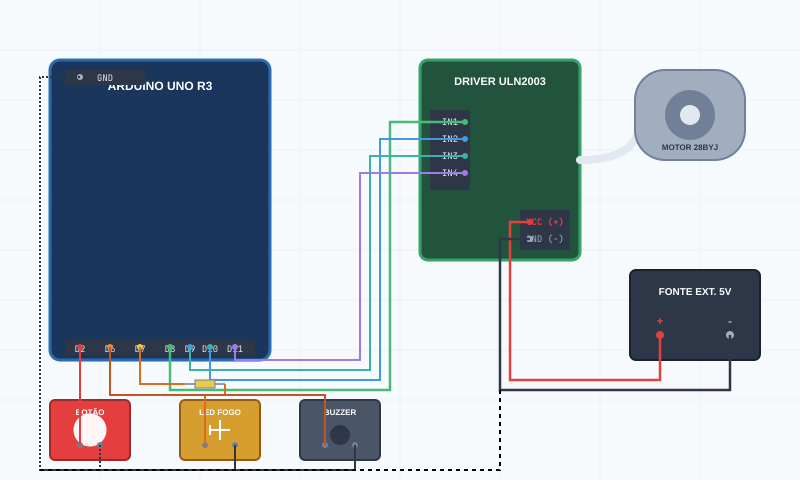
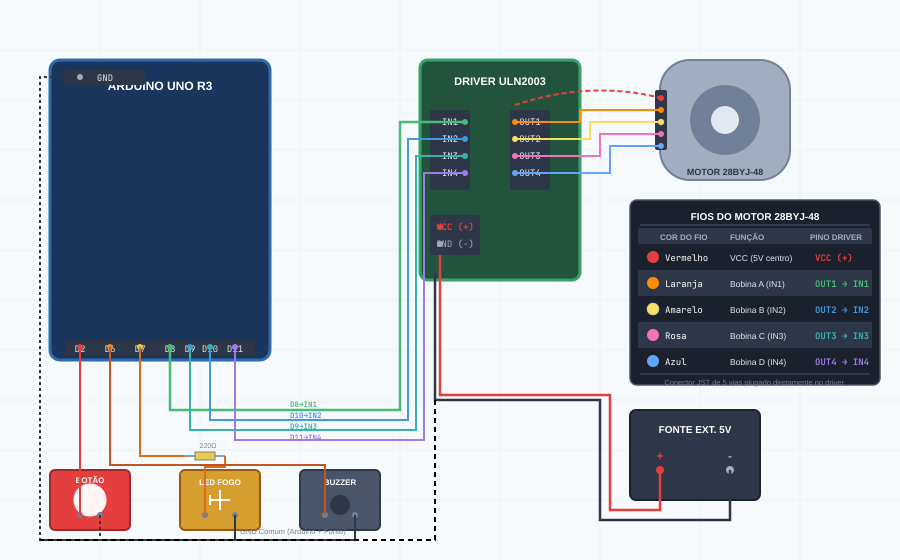
feat: atualizar esquemas e tutorial do pouso lunar

diff --git a/downloads/pouso-lunar/tutorial_pouso_lunar.html b/downloads/pouso-lunar/tutorial_pouso_lunar.html
@@ -864,11 +864,75 @@
     Trocar esses dois fios fará o motor vibrar sem girar ou girar de forma irregular.
 </div>
 
+<h2>Fios do Motor 28BYJ-48 → Driver ULN2003</h2>
+<p>
+    O motor 28BYJ-48 possui um conector JST de <strong>5 vias</strong> que se encaixa
+    diretamente no driver ULN2003. Cada fio tem uma cor padrão de fábrica que
+    corresponde a uma bobina interna. Confira a tabela antes de plugar:
+</p>
+
+<table class="avoid-break">
+    <thead>
+        <tr>
+            <th style="width:12%">Cor do Fio</th>
+            <th style="width:22%">Identificação</th>
+            <th style="width:28%">Função / Bobina</th>
+            <th style="width:18%">Pino Driver</th>
+            <th>Observações</th>
+        </tr>
+    </thead>
+    <tbody>
+        <tr>
+            <td><span class="color-dot" style="background:#E53E3E"></span><strong>Vermelho</strong></td>
+            <td>VCC — Centro</td>
+            <td>Alimentação das bobinas (ponto central)</td>
+            <td><span class="pin pin-vcc">VCC (+) 5V</span></td>
+            <td>Fio do meio no conector. Sempre vai ao VCC da fonte externa.</td>
+        </tr>
+        <tr>
+            <td><span class="color-dot" style="background:#FF8C00"></span><strong>Laranja</strong></td>
+            <td>Bobina A</td>
+            <td>Fase 1 — IN1 do driver</td>
+            <td><span class="pin pin-digital">OUT1</span></td>
+            <td>Primeiro fio após o vermelho.</td>
+        </tr>
+        <tr>
+            <td><span class="color-dot" style="background:#ECC94B; border:1px solid #ccc"></span><strong>Amarelo</strong></td>
+            <td>Bobina B</td>
+            <td>Fase 2 — IN2 do driver</td>
+            <td><span class="pin pin-digital">OUT2</span></td>
+            <td>Sequência natural do conector.</td>
+        </tr>
+        <tr>
+            <td><span class="color-dot" style="background:#F472B6"></span><strong>Rosa</strong></td>
+            <td>Bobina C</td>
+            <td>Fase 3 — IN3 do driver</td>
+            <td><span class="pin pin-digital">OUT3</span></td>
+            <td>Sequência natural do conector.</td>
+        </tr>
+        <tr>
+            <td><span class="color-dot" style="background:#60A5FA"></span><strong>Azul</strong></td>
+            <td>Bobina D</td>
+            <td>Fase 4 — IN4 do driver</td>
+            <td><span class="pin pin-digital">OUT4</span></td>
+            <td>Último fio do conector.</td>
+        </tr>
+    </tbody>
+</table>
+
+<div class="box box-tip">
+    <strong>✅ Plug and Play — Basta encaixar o conector!</strong>
+    O módulo ULN2003 já vem com o conector JST fêmea correspondente ao cabo do motor.
+    Basta encaixar com a trava voltada para cima. Não é necessário cruzar nenhum fio —
+    a ordem das bobinas é tratada <em>no código</em> pelo construtor
+    <code>Stepper(2048, 8, 10, 9, 11)</code>.
+</div>
+
 <h2>Diagrama de Conexões</h2>
 <div class="diagram-container">
-    <img src="esquema_eletrico.png" alt="Esquema de ligação elétrica do Pouso Lunar" style="width:100%; max-width:660px;">
+    <img src="esquema_eletrico.png" alt="Esquema de ligação elétrica do Pouso Lunar" style="width:100%; max-width:720px;">
     <div class="diagram-caption">
-        Figura 1 — Esquema Geral de Conexões (Arduino · Driver ULN2003 · Botão · LED · Buzzer · Fonte 5 V).
+        Figura 1 — Esquema Geral: Arduino → Driver ULN2003 → Motor 28BYJ-48 (com cores dos fios), Botão, LED, Buzzer e Fonte 5 V.
     </div>
 </div>
 